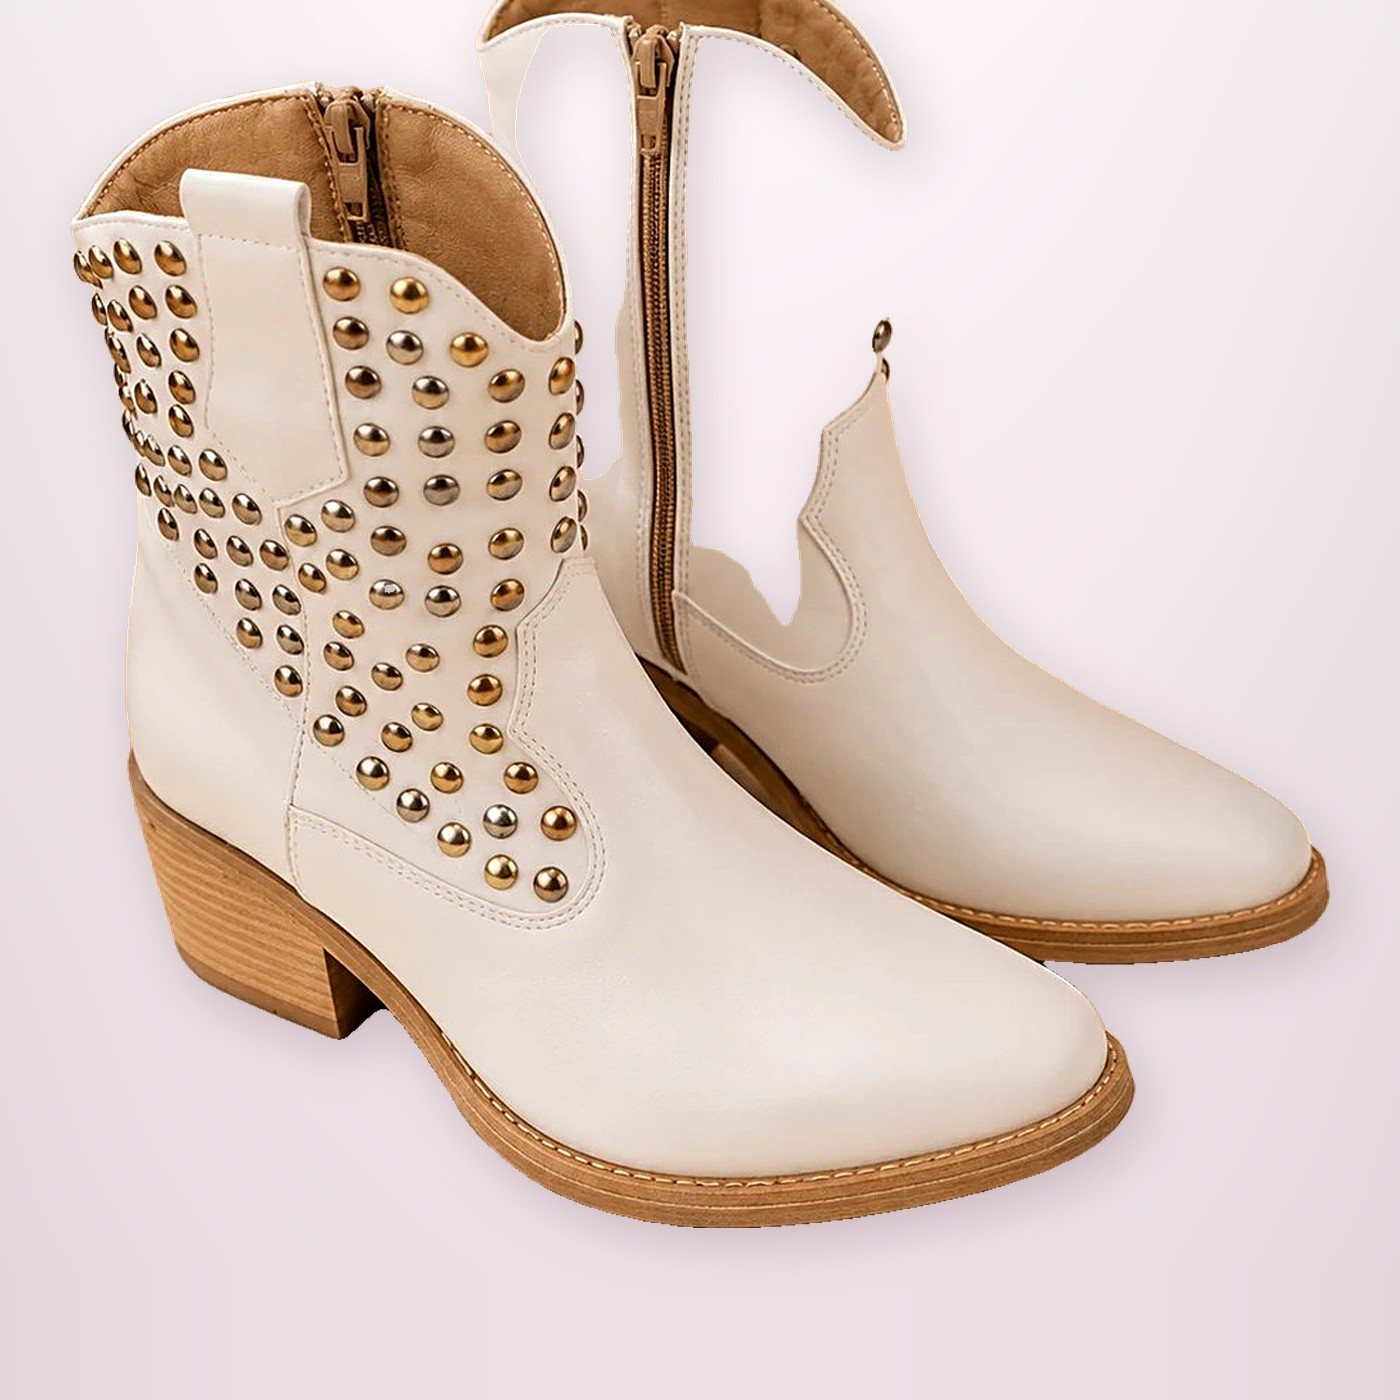
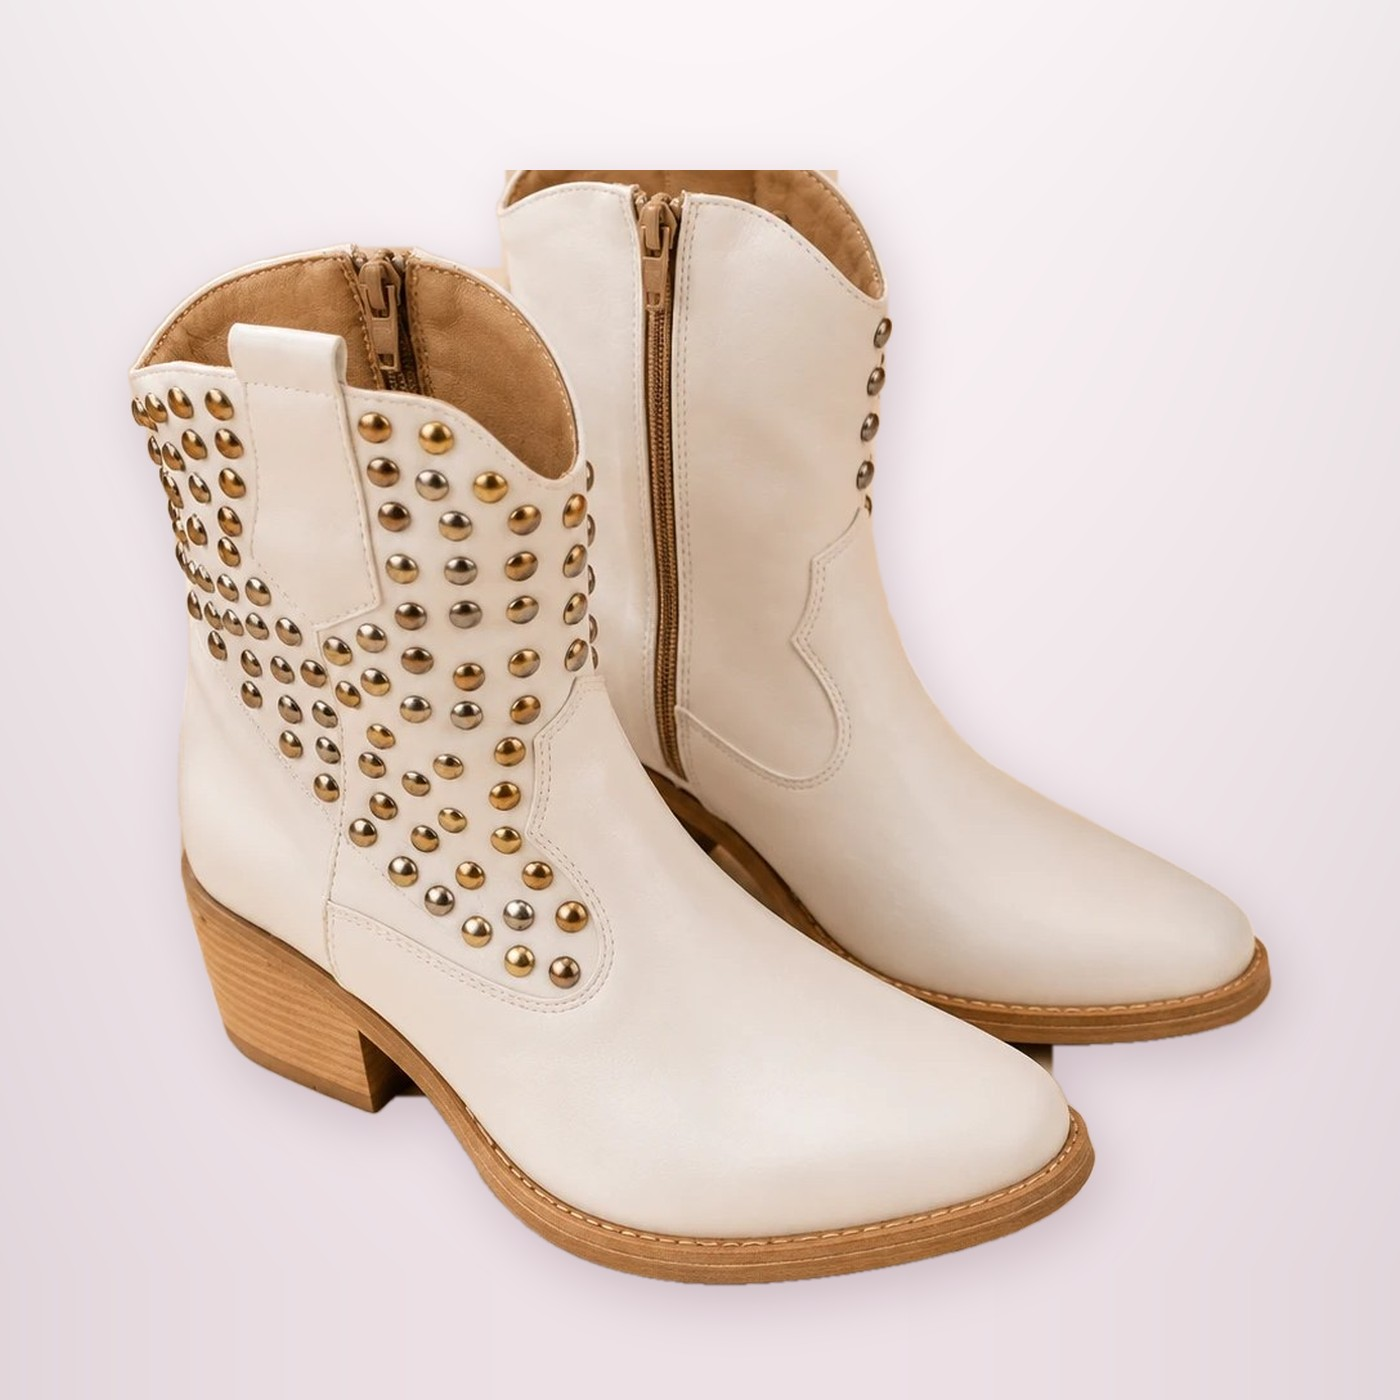
Bota texana con tachas: foto blanca rehecha y foto propia en negro
La foto blanca tenía parches por el recorte de la bota de atrás; se rehízo
combinando dos modelos de recorte. La negra es la misma foto con el cuero
recoloreado (tachas, cierre, forro y taco sin tocar).

Claude-Session: https://claude.ai/code/session_016kC1pPyL2jkNLS5KGy46ZW

diff --git a/productos.js b/productos.js
@@ -36,7 +36,7 @@
     {id:1,cat:"botas",caja:"bota-alta",nombre:"Bota texana bordada",desc:"Caña alta, bordado western, taco de madera.",precio:45000,talles:[35,36,37,38,39,40],colores:[{id:"marron",nombre:"Chocolate",hex:"#5A2A1E",precio:48000,foto:"fotos/bota-texana-bordada-marron.jpg"},{id:"blanco",nombre:"Blanco",hex:"#F2EFEA",precio:45000,foto:"fotos/bota-texana-bordada-blanca.webp"}]},
     {id:2,cat:"botas",nombre:"Bota texana corta",desc:"Caña corta, cierre lateral, puntera bordada.",precio:28000,talles:[35,36,37,38,39,40],colores:[{id:"suela",nombre:"Suela",hex:"#7B3F1E",foto:"fotos/bota-texana-corta-marron.webp"}]},
     {id:13,cat:"botas",nombre:"Bota texana punta cuadrada",desc:"Caña media, cierre lateral, taco ancho.",precio:28000,talles:[35,36,37,38,39,40],colores:[{id:"marron",nombre:"Marrón",hex:"#7A4A2A",foto:"fotos/bota-texana-punta-cuadrada-marron.jpg"},{id:"negro",nombre:"Negro",hex:"#1C1C1C"}]},
-    {id:14,cat:"botas",nombre:"Bota texana con tachas",desc:"Tachas doradas y plateadas, cierre lateral.",precio:45000,talles:[35,36,37,38,39,40],colores:[{id:"blanco",nombre:"Blanco",hex:"#F2EFEA",foto:"fotos/bota-texana-tachas-blanca.jpg"},{id:"negro",nombre:"Negro",hex:"#1C1C1C"}]},
+    {id:14,cat:"botas",nombre:"Bota texana con tachas",desc:"Tachas doradas y plateadas, cierre lateral.",precio:45000,talles:[35,36,37,38,39,40],colores:[{id:"blanco",nombre:"Blanco",hex:"#F2EFEA",foto:"fotos/bota-texana-tachas-blanca.jpg"},{id:"negro",nombre:"Negro",hex:"#1C1C1C",foto:"fotos/bota-texana-tachas-negra.jpg"}]},
     {id:9,cat:"botas",nombre:"Bota corta con tachas",desc:"Elásticos laterales, tachas, taco de madera.",precio:30000,talles:[35,36,37,38,39,40],colores:[{id:"marron",nombre:"Marrón",hex:"#4E2E1E",foto:"fotos/bota-corta-tachas-marron.jpg"},{id:"negro",nombre:"Negro",hex:"#1C1C1C"}]},
     {id:3,cat:"botas",caja:"bota-alta",nombre:"Bota texana con flecos",desc:"Gamuza, flecos laterales y tachas.",precio:55000,talles:[35,36,37,38,39,40],colores:[{id:"marron",nombre:"Marrón",hex:"#3E2418",foto:"fotos/bota-flecos-tachas-marron.jpg"},{id:"negro",nombre:"Negro",hex:"#1C1C1C",foto:"fotos/bota-flecos-tachas-negra.jpg"}]},
     {id:12,cat:"botas",caja:"bota-alta",nombre:"Bota caña alta con flecos",desc:"Caña fruncida, tiras con argollas, punta fina.",precio:50000,talles:[35,36,37,38,39,40],colores:[{id:"negro",nombre:"Negro",hex:"#1C1C1C",foto:"fotos/bota-cana-alta-flecos-negra.webp"},{id:"blanco",nombre:"Blanco",hex:"#F2EFEA"}]},

diff --git a/CLAUDE.md b/CLAUDE.md
@@ -20,10 +20,11 @@ No hay Node ni Python en las computadoras. `.claude/launch.json` → "tienda" le
 - Hecho: catálogo con fotos (logos "Todo20" recortados; Todo20 es otra marca del mismo dueño), logo e isotipo (`img/`), checkout, envíos, editor, textos legales.
 - Catálogo Pontecomoda (proveedor/socio, se pueden usar sus fotos): ids 15 en adelante, nombres reescritos para clientes. Solo están disponibles los artículos de la "lista de precios verano" (Samba, Emi, Vicky, Ricky, París, Lore, Katy, Aldi, Romi, Vitto, Italia, Moscú, Zahira, Ximena, Cleo/Creo, Lali, India, Ameli, Cruz, Birk, Frida, Lupe, Verona tachas, Verona lisa, Támesis, Umma). El resto tiene `oculto:true` (desactivado, se reactiva borrando esa marca). Precio de venta = costo + $10.000 redondeado hacia abajo al millar (margen $9.000–10.000). No cargar artículos con logos de otras marcas (se descartó la Art. Air por la pipa de Nike).
 - Todos los productos activos tienen precio. Zapato acordonado $30.000, zapatillas urbanas gamuza $45.000, Campus y Samba (viejas) $30.000.
-- Faltan las fotos de los colores nuevos: negro (punta cuadrada, texana con tachas, corta con tachas, caña fruncida), blanco (caña alta con flecos) y bordó (caña fruncida). Mientras tanto la página avisa "foto de referencia en otro color".
+- Faltan las fotos de los colores nuevos: negro (punta cuadrada, corta con tachas, caña fruncida), blanco (caña alta con flecos) y bordó (caña fruncida). Mientras tanto la página avisa "foto de referencia en otro color".
 - El código está en GitHub: `tinchoteee/todo20`. Vercel publica la rama `main` en https://nacireina.vercel.app (cada push a `main` se publica solo).
 - Configurado en Vercel (2026-09-28): base de datos Upstash, `ADMIN_CLAVE` y `MP_ACCESS_TOKEN` de producción (app "Nací Reina" en MP developers). La tienda ya cobra. Después (2026-09-29): Resend (`RESEND_API_KEY`, `AVISOS_EMAIL`) y Zipnova (`ZIPNOVA_API_TOKEN/SECRET/ACCOUNT_ID`, sin `ZIPNOVA_ORIGIN_ID`: usa el origen predeterminado de la cuenta) configurados y probados; compra real de prueba OK.
 - WhatsApp del local: 11 6949 0396 (`5491169490396`), botón flotante abajo a la derecha.
+- Bota texana con tachas negra: foto recoloreada digitalmente a partir de la blanca (a pedido del dueño); reemplazar por una foto real cuando haya.
 - Cajas de envío: tamaño caja de Nike, 35 × 24 × 13 cm y 800 g (dato del dueño). Botas de caña alta: 45 × 32 × 14 cm, 800 g.
 - Nunca pedir ni pegar claves ni datos bancarios en el chat: el usuario los carga directo en Vercel y en Mercado Pago.
 - Siguiente paso: cambiar los nombres Samba/Campus (marcas de Adidas) si el dueño acepta.
